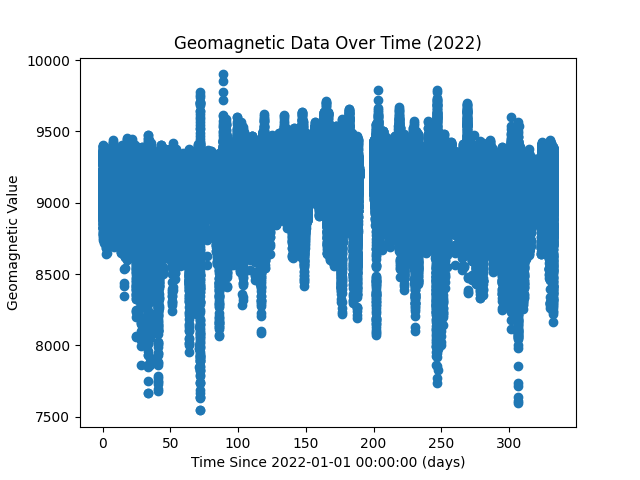
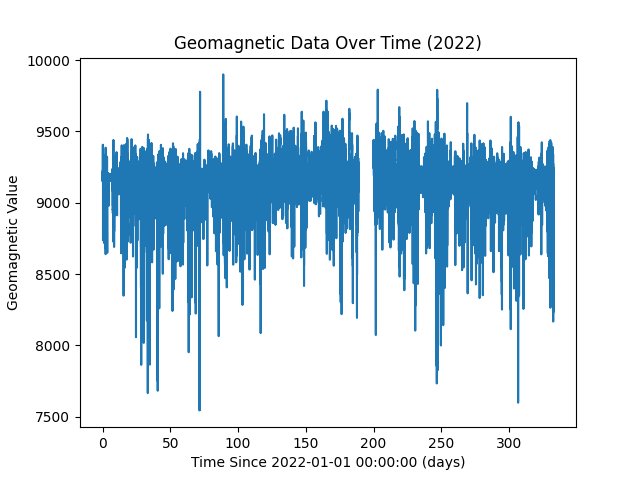
README tweaks

Changed region(s): [[0.1562, 0.125, 0.875, 0.875]]

diff --git a/parse_geomag.py b/parse_geomag.py
@@ -32,7 +32,7 @@ if __name__ == "__main__":
             null_counts[int(t)] += 1
     print(f"NULL_COUNTS: {null_counts}")
     fig, ax = plt.subplots()
-    ax.scatter(timestamps, values)
+    ax.plot(timestamps, values, linestyle='-')
     ax.set(xlabel=f'Time Since {datetime.datetime.fromtimestamp(start_timestamp)} (days)', ylabel='Geomagnetic Value', title='Geomagnetic Data Over Time (2022)')
     fig.savefig('plots/geomag_BRW_01-01-22-11-29-22_plot.png')
     plt.show()

diff --git a/README.md b/README.md
@@ -70,11 +70,11 @@
       </ul>
     </li>
     <li><a href="#usage">Usage</a></li>
-    <li><a href="#roadmap">Roadmap</a></li>
+    <!-- <li><a href="#roadmap">Roadmap</a></li>
     <li><a href="#contributing">Contributing</a></li>
     <li><a href="#license">License</a></li>
     <li><a href="#contact">Contact</a></li>
-    <li><a href="#acknowledgments">Acknowledgments</a></li>
+    <li><a href="#acknowledgments">Acknowledgments</a></li> -->
   </ol>
 </details>
 
@@ -109,28 +109,29 @@ Follow the following instructions to replicate the project locally:
 ### Prerequisites
 
 The following software is needed to run the scripts:
-* python 3.x
+* python 3.x:
   visit https://www.python.org/downloads/
-* matplotlib
-    ```pip install matplotlib```
-* qiskit
-    ```pip install qiskit```
+* matplotlib:
+    ```sh
+    pip install matplotlib
+    ```
+* qiskit:
+    ```sh
+    pip install qiskit
+    ```
 
 ### Installation
 
-1. Get a free API Key at [https://example.com](https://example.com)
-2. Clone the repo
+1. Clone the repo
    ```sh
-   git clone https://github.com/github_username/repo_name.git
+   git clone https://github.com/bengoldstein19/Quantum-Computer-Resarch-Cosmic-Ray-Fingerprinting
    ```
-3. Install NPM packages
+2. Download Geomagnetic Data
    ```sh
-   npm install
+   wget https://geomag.usgs.gov/ws/data/?elements=H&endtime=YEAR-MONTH-DAYTHOUR:MINUTE:SECOND.000Z&format=json&id=NEW&sampling_period=60&starttime=YEAR-MONTH-DAYTHOUR:MINUTE:SECOND.000Z&type=adjusted -O OUTPUTFILEPATH
    ```
-4. Enter your API in `config.js`
-   ```js
-   const API_KEY = 'ENTER YOUR API';
-   ```
+   Notably periods longer than 6 months are unsupported with once-per-minute sampling, so must be split into multiple files
+3. Modify file paths at top of parse_geomag.py to reflect OUTPUTFILEPATH used in wget
 
 <p align="right">(<a href="#readme-top">back to top</a>)</p>
 
@@ -139,15 +140,15 @@ The following software is needed to run the scripts:
 <!-- USAGE EXAMPLES -->
 ## Usage
 
-Use this space to show useful examples of how a project can be used. Additional screenshots, code examples and demos work well in this space. You may also link to more resources.
+Running ```issue_jobs.py``` will issue 200 jobs at 15 minute intervals, and reap them. Note that the process takes ~2 days, so running on a laptop may be unfeasible. You then can download the job output via the API or using the web GUI. Then make sure you put all output json files in one folder, and change the ```ROOTDIR``` parameter at the top of parse results.py, as well as the dates in the filenames to reflect that of your jobs. Then, running ```parse_results.py``` will produce a csv and plot for the concatenated timeseries data. 
 
-_For more examples, please refer to the [Documentation](https://example.com)_
+After downloading geomag data as shown above, ```parse_geomag.py``` will produce a plot of the results
 
 <p align="right">(<a href="#readme-top">back to top</a>)</p>
 
 
 
-<!-- ROADMAP -->
+<!-- ROADMAP
 ## Roadmap
 
 - [ ] Feature 1
@@ -161,7 +162,7 @@ See the [open issues](https://github.com/github_username/repo_name/issues) for a
 
 
 
-<!-- CONTRIBUTING -->
+<!-- CONTRIBUTING -- >
 ## Contributing
 
 Contributions are what make the open source community such an amazing place to learn, inspire, and create. Any contributions you make are **greatly appreciated**.
@@ -179,7 +180,7 @@ Don't forget to give the project a star! Thanks again!
 
 
 
-<!-- LICENSE -->
+<!-- LICENSE -- >
 ## License
 
 Distributed under the MIT License. See `LICENSE.txt` for more information.
@@ -188,7 +189,7 @@ Distributed under the MIT License. See `LICENSE.txt` for more information.
 
 
 
-<!-- CONTACT -->
+<!-- CONTACT -- >
 ## Contact
 
 Your Name - [@twitter_handle](https://twitter.com/twitter_handle) - email@email_client.com
@@ -199,20 +200,20 @@ Project Link: [https://github.com/github_username/repo_name](https://github.com/
 
 
 
-<!-- ACKNOWLEDGMENTS -->
+<!-- ACKNOWLEDGMENTS -- >
 ## Acknowledgments
 
 * []()
 * []()
 * []()
 
-<p align="right">(<a href="#readme-top">back to top</a>)</p>
+<p align="right">(<a href="#readme-top">back to top</a>)</p> -->
 
 
 
 <!-- MARKDOWN LINKS & IMAGES -->
 <!-- https://www.markdownguide.org/basic-syntax/#reference-style-links -->
-[contributors-shield]: https://img.shields.io/github/contributors/github_username/repo_name.svg?style=for-the-badge
+<!-- [contributors-shield]: https://img.shields.io/github/contributors/github_username/repo_name.svg?style=for-the-badge
 [contributors-url]: https://github.com/github_username/repo_name/graphs/contributors
 [forks-shield]: https://img.shields.io/github/forks/github_username/repo_name.svg?style=for-the-badge
 [forks-url]: https://github.com/github_username/repo_name/network/members
@@ -223,7 +224,7 @@ Project Link: [https://github.com/github_username/repo_name](https://github.com/
 [license-shield]: https://img.shields.io/github/license/github_username/repo_name.svg?style=for-the-badge
 [license-url]: https://github.com/github_username/repo_name/blob/master/LICENSE.txt
 [linkedin-shield]: https://img.shields.io/badge/-LinkedIn-black.svg?style=for-the-badge&logo=linkedin&colorB=555
-[linkedin-url]: https://linkedin.com/in/linkedin_username
+[linkedin-url]: https://linkedin.com/in/linkedin_username -->
 [product-screenshot]: https://qiskit.org/images/metal/hero/transmon.png
 [Python]: https://img.shields.io/badge/Python-3776AB?style=for-the-badge&logo=python&logoColor=white
 [Python-url]: https://python.org/
@@ -231,7 +232,7 @@ Project Link: [https://github.com/github_username/repo_name](https://github.com/
 [Qiskit-url]: https://qiskit.org/
 [Matplotlib]: https://img.shields.io/badge/Matplotlib-%23ffffff.svg?style=for-the-badge&logo=Matplotlib&logoColor=black
 [Matplotlib-url]: https://matplotlib.org/
-[Angular.io]: https://img.shields.io/badge/Angular-DD0031?style=for-the-badge&logo=angular&logoColor=white
+<!-- [Angular.io]: https://img.shields.io/badge/Angular-DD0031?style=for-the-badge&logo=angular&logoColor=white
 [Angular-url]: https://angular.io/
 [Svelte.dev]: https://img.shields.io/badge/Svelte-4A4A55?style=for-the-badge&logo=svelte&logoColor=FF3E00
 [Svelte-url]: https://svelte.dev/
@@ -240,4 +241,4 @@ Project Link: [https://github.com/github_username/repo_name](https://github.com/
 [Bootstrap.com]: https://img.shields.io/badge/Bootstrap-563D7C?style=for-the-badge&logo=bootstrap&logoColor=white
 [Bootstrap-url]: https://getbootstrap.com
 [JQuery.com]: https://img.shields.io/badge/jQuery-0769AD?style=for-the-badge&logo=jquery&logoColor=white
-[JQuery-url]: https://jquery.com 
+[JQuery-url]: https://jquery.com  -->
